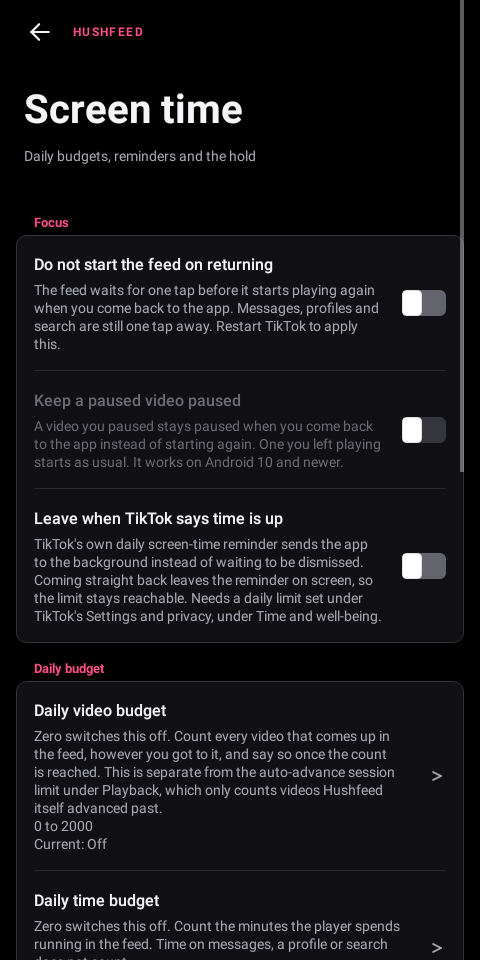
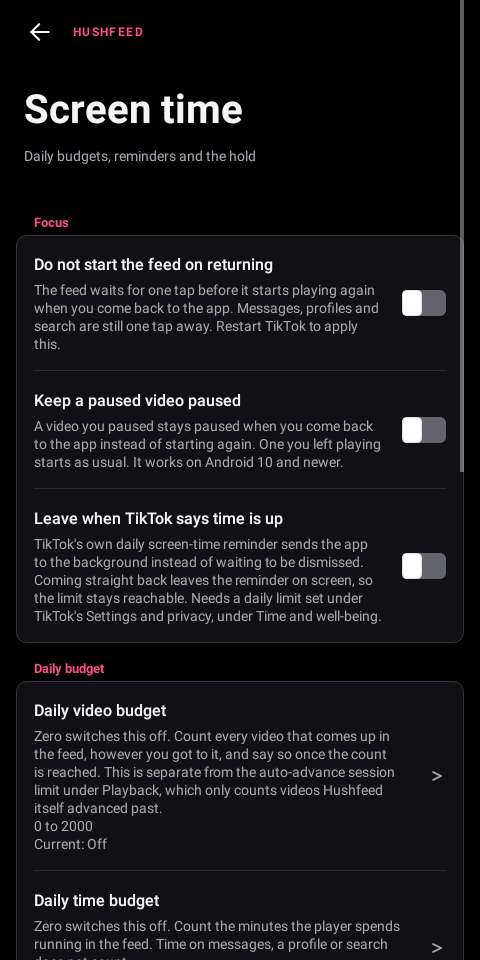
docs(settings): capture the pages on Android 10, drop a stray Javadoc
Review #10: the published Screen time capture showed Keep a paused video
paused greyed out, because the pages rendered at API 28 where that row
is unavailable. The two page captures now run at API 29. Also removes an
orphaned Javadoc line above KEEP_PAUSED_ON_RETURN.

Changed region(s): [[0.0625, 0.4062, 0.7812, 0.5], [0.875, 0.4375, 0.9375, 0.4688]]

diff --git a/extensions/tiktok/src/test/java/app/morphe/extension/tiktok/settings/SettingsPagesTest.java b/extensions/tiktok/src/test/java/app/morphe/extension/tiktok/settings/SettingsPagesTest.java
@@ -487,8 +487,11 @@ public class SettingsPagesTest {
         }
     }
 
-    @Test public void darkPagesNavigateAndRender() throws Exception { capturePages("dark"); }
-    @Test @Config(qualifiers = "w480dp-h960dp-notnight-mdpi")
+    // The published pages are captured on Android 10, the first version every row is available on,
+    // so none of them is shown greyed out. Keep a paused video paused needs it.
+    @Test @Config(sdk = 29)
+    public void darkPagesNavigateAndRender() throws Exception { capturePages("dark"); }
+    @Test @Config(sdk = 29, qualifiers = "w480dp-h960dp-notnight-mdpi")
     public void lightPagesNavigateAndRender() throws Exception { capturePages("light"); }
 
     private void capturePages(String theme) throws Exception {

diff --git a/extensions/tiktok/src/main/java/app/morphe/extension/tiktok/settings/Settings.java b/extensions/tiktok/src/main/java/app/morphe/extension/tiktok/settings/Settings.java
@@ -345,7 +345,6 @@ public class Settings extends BaseSettings {
      */
     public static final BooleanSetting NO_RESUME_ON_FOREGROUND = new BooleanSetting(
             "no_resume_on_foreground", FALSE, true);
-    /** Leaves a video the reader paused paused when the app comes back. Off by default. */
     /**
      * Keep a paused video paused. It reads the player in the pre-pause callback, which arrived in
      * Android 10, so older versions have nothing to read it by and the row is greyed there.
